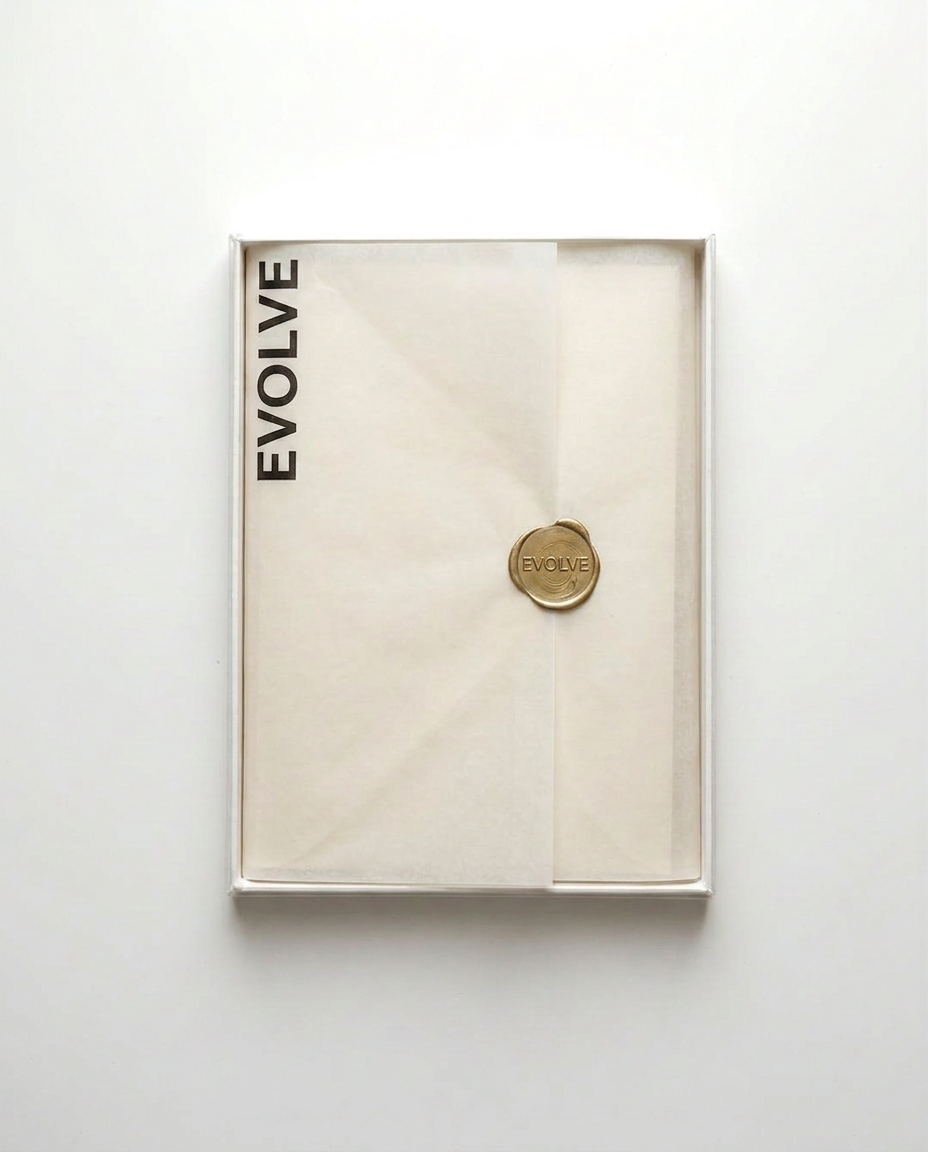
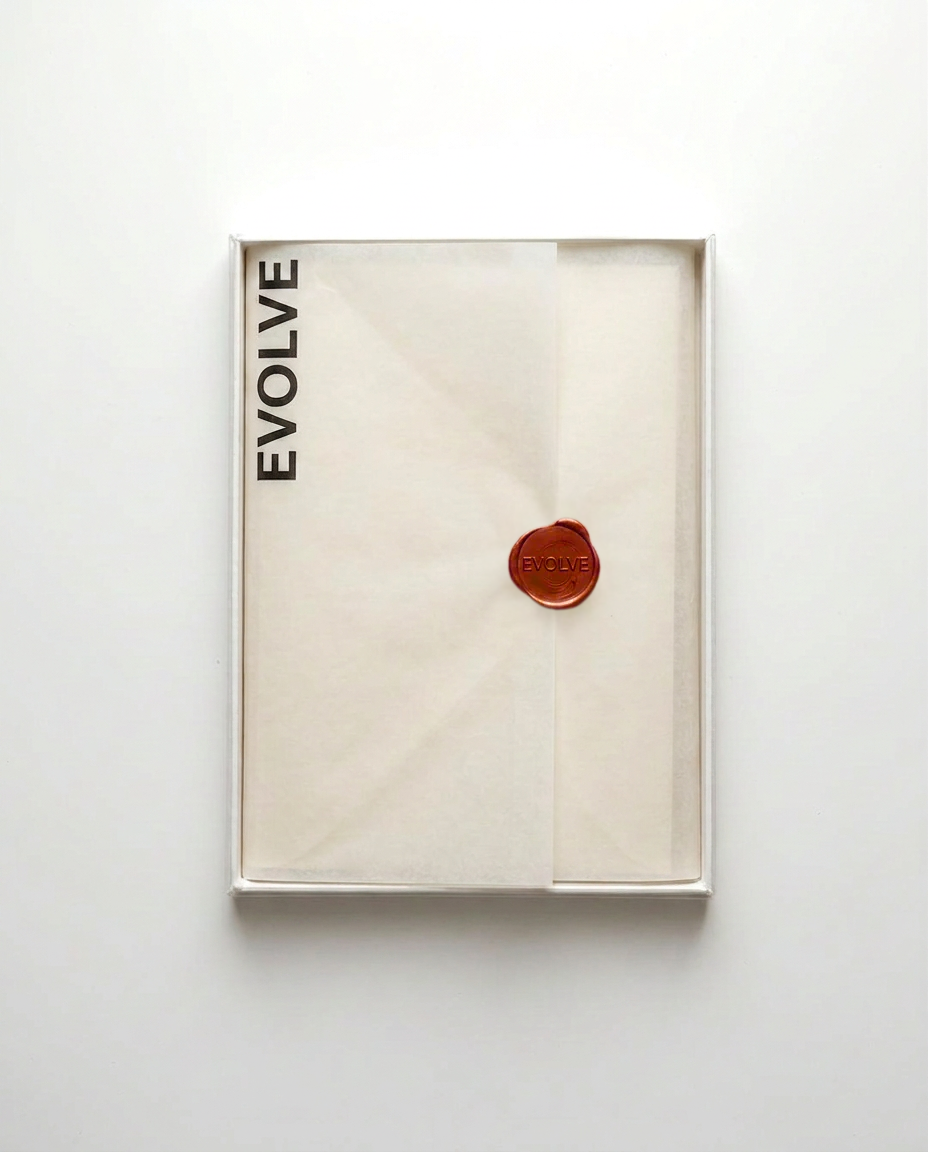
Evolve: crimson wax seal on packaging photo to match the palette

Changed region(s): [[0.5312, 0.4375, 0.6562, 0.5312]]

diff --git a/case-studies/evolve.html b/case-studies/evolve.html
@@ -298,12 +298,12 @@
   <div class="chapter-text">
     <div class="eyebrow">Packaging</div>
     <h2>The Unboxing Is Part of the Ritual</h2>
-    <p>The packaging system was designed to be unwrapped deliberately — a sequence of reveals that prepares the person to use what's inside. A pale ivory outer box, debossed with the wordmark. Parchment tissue wrap, sealed in warm brass wax. A hand-stamped linen tag, tied with ribbon. Nothing is wasted. Every material signals intention.</p>
+    <p>The packaging system was designed to be unwrapped deliberately — a sequence of reveals that prepares the person to use what's inside. A pale ivory outer box, debossed with the wordmark. Parchment tissue wrap, sealed in crimson wax. A hand-stamped linen tag, tied with ribbon. Nothing is wasted. Every material signals intention.</p>
     <p style="font-style: italic; font-family: 'Cormorant Garamond', serif; font-size: 1.3rem; color: var(--ink);">"Every detail is a decision. Every decision is a message."</p>
   </div>
   <div class="chapter-media">
   <div class="chapter-image">
-    <img src="assets/evolve/evolve-02-packaging.png" alt="Evolve packaging: ivory box wrapped in parchment tissue, sealed with a brass wax seal" style="width:100%; height:auto; display:block; filter: drop-shadow(0 20px 26px rgba(54,40,32,0.16));">
+    <img src="assets/evolve/evolve-02-packaging.png" alt="Evolve packaging: ivory box wrapped in parchment tissue, sealed with a crimson wax seal" style="width:100%; height:auto; display:block; filter: drop-shadow(0 20px 26px rgba(54,40,32,0.16));">
   </div>
   </div>
 </section>
